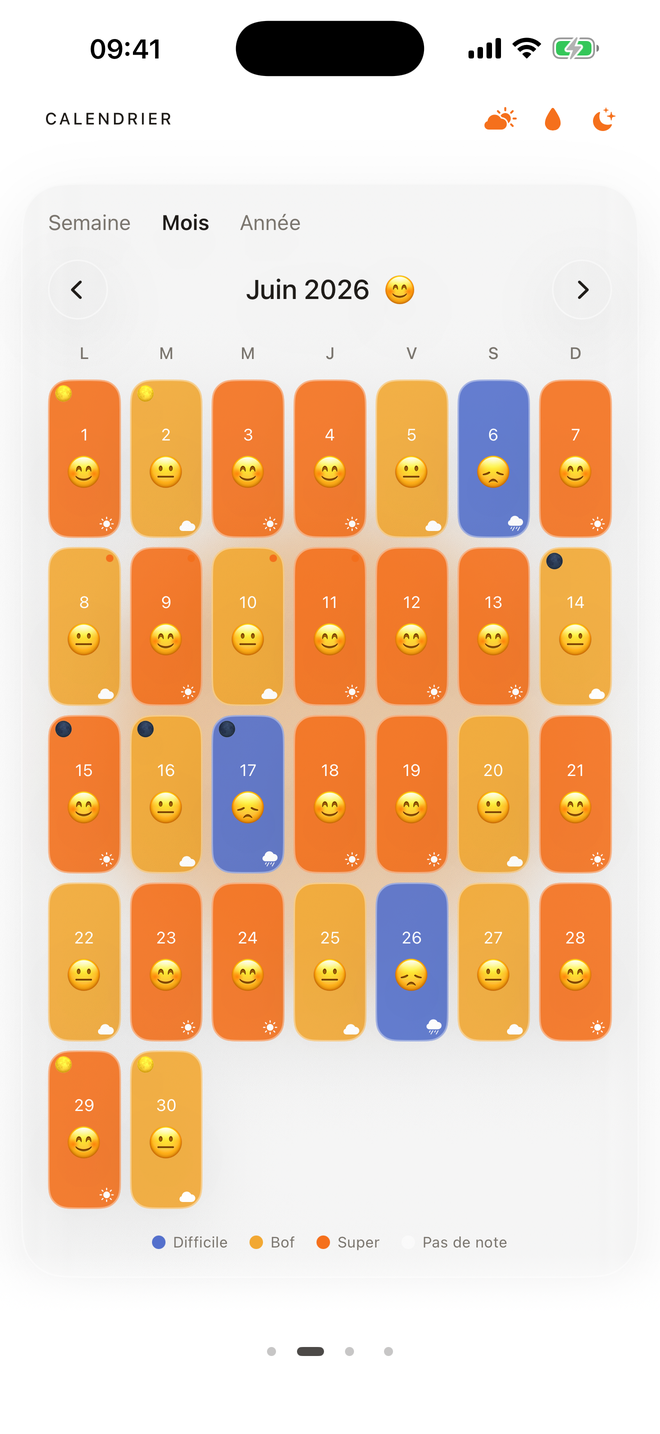
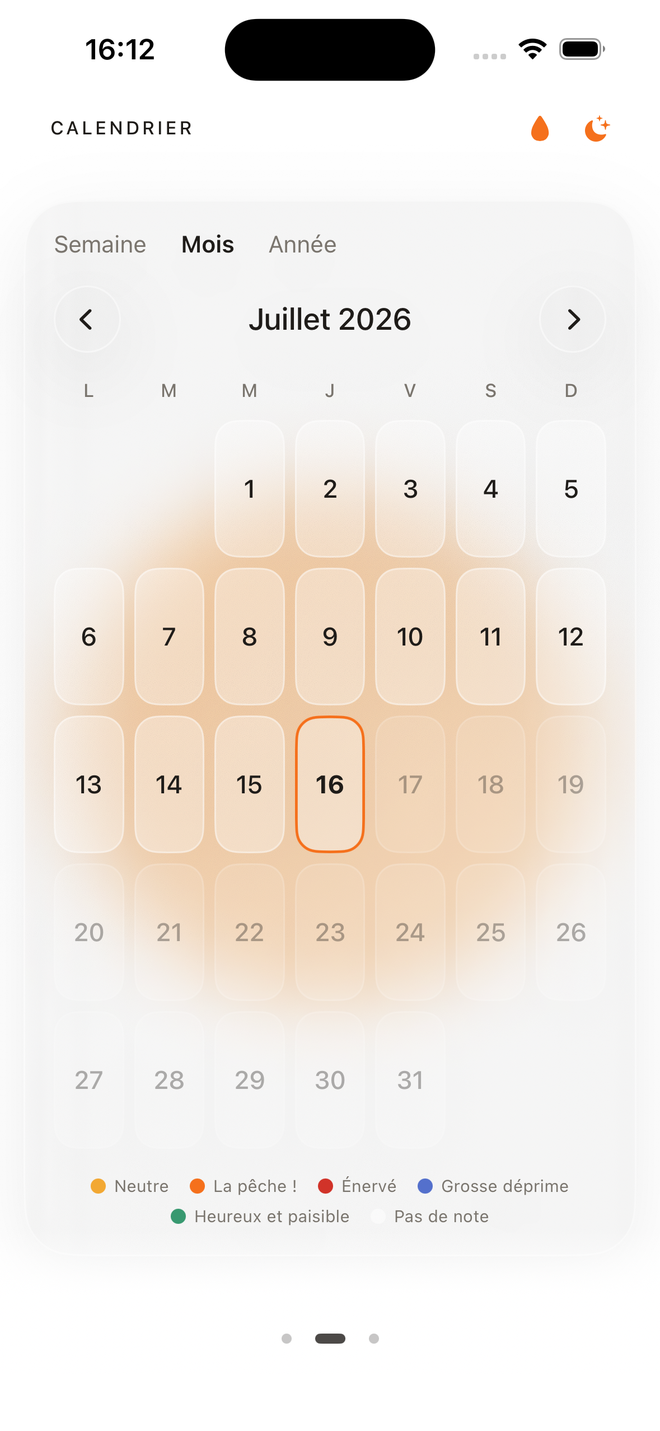
IFEEL : met la page à jour avec la nouvelle version de l'app
L'app a beaucoup changé ; la page décrivait encore l'ancienne. Mises à jour,
toutes tirées du code réel (RateMyDay) et de captures fraîches :

- Nouveau sélecteur : le pad d'humeur 2D à cinq zones (Neutre, La pêche !,
  Énervé, Grosse déprime, Heureux et paisible) remplace le smiley à trois
  niveaux. Le module animé du hero devient ce pad (couleurs prises dans le
  code), le disque se déplaçant de zone en zone.
- Apple Watch : même pad au poignet, synchronisé.
- Journée éditable : chaque jour reste modifiable.
- Nouveau calendrier en tuiles colorées (semaine / mois / année).

Section « L'app » : les trois captures du 10 juillet montraient l'ancienne
app. Remplacées par deux captures réelles de la dernière version — le pad
« La pêche ! » et le calendrier avec sa légende des cinq humeurs. La 3e
(analyses) est retirée : c'est un écran vide tant qu'il n'y a pas de données.

Fonctions, étapes, ticker, hero et métadonnées réécrits en conséquence.

diff --git a/docs/index.html b/docs/index.html
@@ -4,10 +4,10 @@
 <meta charset="UTF-8">
 <meta name="viewport" content="width=device-width, initial-scale=1.0">
 <title>IFEEL — STUPIDS STUDIO</title>
-<meta name="description" content="IFEEL : note ton humeur jour après jour. Un geste, un smiley, et ton calendrier d'émotions se dessine. Météo, lune, raisons — tout reste privé, sur ton iPhone.">
+<meta name="description" content="IFEEL : note ton humeur d'un geste sur un pad à cinq humeurs, depuis l'iPhone ou l'Apple Watch. Calendrier d'émotions en tuiles colorées, journées éditables, météo et lune — tout reste privé, sur ton appareil.">
 <link rel="icon" href="icon.png">
 <meta property="og:title" content="IFEEL">
-<meta property="og:description" content="Note ton humeur jour après jour. Simple, beau, 100% privé.">
+<meta property="og:description" content="Cinq humeurs, un pad qu'on fait glisser, sur iPhone et Apple Watch. Calendrier d'émotions, 100% privé.">
 <meta property="og:image" content="icon.png">
 <meta name="theme-color" content="#F2EFE6">
 <link rel="preconnect" href="https://fonts.googleapis.com">
@@ -87,26 +87,35 @@ nav .btn{padding:11px 16px}
 .par{transition:translate .5s var(--ease)}
 @keyframes bob{50%{transform:translateY(20px)}}
 
-/* ---------- EFFET SIGNATURE : le calendrier d'émotions ----------
-   Le cœur de l'app en une image : un mois vide qui se remplit jour
-   après jour d'un aplat d'humeur, puis repart à zéro. */
-.cal{position:relative;z-index:2;width:min(400px,84%);background:var(--ink);padding:18px}
-.cal-head{display:flex;justify-content:space-between;align-items:center;margin-bottom:14px}
-.cal-head span{font-family:var(--mono);font-size:9.5px;letter-spacing:.14em;text-transform:uppercase;color:#8f8f8f}
-.cal-head #cal-month{color:var(--paper)}
-.cal-head .dot{width:7px;height:7px;background:var(--app);animation:blink 1.6s steps(2) infinite}
+/* ---------- EFFET SIGNATURE : le pad d'humeur 2D ----------
+   Le nouveau sélecteur de l'app, traduit en Bauhaus : un champ à 2 axes
+   divisé en 5 zones (les 5 humeurs), et un disque qu'on déplace de l'une
+   à l'autre. Couleurs prises telles quelles dans le code de l'app. */
+.pad{position:relative;z-index:2;width:min(340px,80%);background:var(--ink);padding:18px}
+.pad-head{display:flex;justify-content:space-between;align-items:center;margin-bottom:14px}
+.pad-head span{font-family:var(--mono);font-size:9.5px;letter-spacing:.14em;text-transform:uppercase;color:#8f8f8f}
+.pad-head .dot{width:7px;height:7px;background:var(--app);animation:blink 1.6s steps(2) infinite}
 @keyframes blink{50%{opacity:.25}}
-.cal-days{display:grid;grid-template-columns:repeat(7,1fr);gap:3px;margin-bottom:6px}
-.cal-days b{font-family:var(--mono);font-size:8px;font-weight:400;letter-spacing:.08em;color:#6a6a6a;text-align:center}
-.cal-grid{display:grid;grid-template-columns:repeat(7,1fr);gap:3px}
-.cal-grid i{display:block;aspect-ratio:1;background:#242424}
-.cal-grid i.on{animation:pop .26s var(--ease)}
-@keyframes pop{from{transform:scale(.45)}}
-.cal-foot{display:flex;justify-content:space-between;align-items:center;gap:12px;margin-top:14px}
-.cal-foot span{font-family:var(--mono);font-size:9.5px;letter-spacing:.1em;text-transform:uppercase;color:#8f8f8f}
-.cal-foot #cal-day{color:var(--app)}
-.cal-foot #cal-day::before{content:"";display:inline-block;width:7px;height:7px;background:currentColor;
-  margin-right:7px;vertical-align:1px}
+/* le champ : 4 quadrants + le centre neutre, hard-edged */
+.field{position:relative;aspect-ratio:1;display:grid;grid-template-columns:1fr 1fr;grid-template-rows:1fr 1fr;gap:2px}
+.field .q{opacity:.2;transition:opacity .45s var(--ease)}
+.field .q.hot{opacity:1}
+.q.tl{background:#D1332A} /* Énervé */
+.q.tr{background:#F5701C} /* La pêche ! */
+.q.bl{background:#5470CC} /* Grosse déprime */
+.q.br{background:#389970} /* Heureux et paisible */
+.field .mid{position:absolute;left:50%;top:50%;width:36%;height:36%;transform:translate(-50%,-50%);
+  background:#F2A833;opacity:.2;transition:opacity .45s var(--ease)} /* Neutre */
+.field .mid.hot{opacity:1}
+/* le disque qu'on déplace */
+.field .mk{position:absolute;width:26px;height:26px;background:var(--paper);border:3px solid var(--ink);
+  border-radius:50%;left:50%;top:50%;margin:-13px;transition:left .6s var(--ease),top .6s var(--ease)}
+.pad-foot{display:flex;justify-content:space-between;align-items:center;gap:12px;margin-top:14px}
+.pad-foot span{font-family:var(--mono);font-size:10px;letter-spacing:.1em;text-transform:uppercase}
+.pad-foot #pad-mood{color:var(--paper)}
+.pad-foot #pad-mood::before{content:"";display:inline-block;width:8px;height:8px;background:var(--z,var(--app));
+  margin-right:8px;vertical-align:0}
+.pad-foot #pad-sub{color:#8f8f8f}
 
 .hero-r .rules{position:absolute;left:32px;bottom:26px;z-index:2}
 .hero-r .rules div{font-family:var(--mono);font-size:11px;letter-spacing:.12em;color:var(--white);
@@ -147,16 +156,15 @@ h2{font-size:clamp(30px,4.4vw,54px);font-weight:900;line-height:.98;letter-spaci
 .step h4{font-size:16px;font-weight:800;letter-spacing:-.02em;margin-bottom:6px}
 .step p{font-size:13.5px;line-height:1.5;color:#3a3a3a}
 
-/* ---------- L'APP — vraies captures App Store ----------
-   Pas de maquette : ces trois écrans sont les captures réelles de l'app.
+/* ---------- L'APP — vraies captures ----------
+   Pas de maquette : ce sont les captures réelles de la dernière version.
    On les pose sur un aplat, sans cadre ni arrondi ajouté. */
-.shots{display:grid;grid-template-columns:1fr;gap:34px}
-@media(min-width:660px){.shots{grid-template-columns:repeat(3,1fr)}}
+.shots{display:grid;grid-template-columns:1fr;gap:34px;max-width:600px;margin:0 auto}
+@media(min-width:560px){.shots{grid-template-columns:1fr 1fr}}
 .shots figure{margin:0;display:flex;flex-direction:column;gap:16px;align-items:center;position:relative}
-.shots .bg-sq{position:absolute;top:-16px;right:6px;width:104px;height:104px;background:var(--yellow);
+.shots .bg-sq{position:absolute;top:-16px;right:6px;width:104px;height:104px;background:var(--app);
   z-index:0;animation:bob3 10s ease-in-out infinite}
-.shots figure:nth-child(2) .bg-sq{background:var(--app)}
-.shots figure:nth-child(3) .bg-sq{background:var(--blue)}
+.shots figure:nth-child(2) .bg-sq{background:var(--yellow)}
 @keyframes bob3{50%{transform:translateY(16px)}}
 .shots img{position:relative;z-index:2;width:100%;max-width:260px;height:auto;display:block;
   transition:transform .3s var(--ease)}
@@ -231,35 +239,38 @@ footer .mail:hover{border-color:var(--app)}
 
   <div class="hero" id="top">
     <div class="hero-l">
-      <p class="eyebrow">IPHONE · IOS 17+ · BIENTÔT DISPONIBLE</p>
+      <p class="eyebrow">IPHONE + APPLE WATCH · IOS 17+ · BIENTÔT</p>
       <h1>Note ton<br>humeur.</h1>
-      <p class="sub">Un geste, un smiley — et ton <strong>calendrier d'émotions</strong> se dessine tout seul. Simple, beau, et <strong>100% privé</strong>.</p>
+      <p class="sub">Fais glisser le disque, choisis parmi <strong>5 humeurs</strong> — et ton <strong>calendrier d'émotions</strong> se colore tout seul. Depuis ton iPhone comme depuis ta montre.</p>
       <div class="cta">
         <a class="btn" href="#get">Bientôt sur l'App Store <span class="ar">→</span></a>
         <a class="lnk" href="#how">Comment ça marche</a>
       </div>
-      <p class="ver">iPhone · Gratuit · Sans pub · Sans compte · Sans tracking</p>
+      <p class="ver">iPhone + Apple Watch · Gratuit · Sans compte · Sans tracking</p>
     </div>
 
     <div class="hero-r" id="panel">
       <div class="circle par" data-d="14"></div>
-      <!-- effet signature : le mois se remplit, une humeur par jour -->
-      <div class="cal par" data-d="-8" aria-hidden="true">
-        <div class="cal-head"><span id="cal-month">JUILLET 2026</span><span class="dot"></span></div>
-        <div class="cal-days"><b>L</b><b>M</b><b>M</b><b>J</b><b>V</b><b>S</b><b>D</b></div>
-        <div class="cal-grid" id="cal-grid"></div>
-        <div class="cal-foot"><span id="cal-day">—</span><span id="cal-count">0 JOURS NOTÉS</span></div>
+      <!-- effet signature : le disque se déplace de zone en zone (les 5 humeurs) -->
+      <div class="pad par" data-d="-8" aria-hidden="true">
+        <div class="pad-head"><span>AUJOURD'HUI · 16 JUIL</span><span class="dot"></span></div>
+        <div class="field" id="field">
+          <div class="q tl"></div><div class="q tr"></div><div class="q bl"></div><div class="q br"></div>
+          <div class="mid"></div>
+          <div class="mk" id="mk"></div>
+        </div>
+        <div class="pad-foot"><span id="pad-mood">La pêche !</span><span id="pad-sub">Glisse le disque</span></div>
       </div>
       <div class="rules">
-        <div>01 / UN GESTE PAR JOUR</div>
-        <div>02 / CALENDRIER VIVANT</div>
-        <div>03 / TOUT RESTE LOCAL</div>
+        <div>01 / GLISSE, CHOISIS TON HUMEUR</div>
+        <div>02 / 5 HUMEURS, UN CALENDRIER</div>
+        <div>03 / IPHONE + APPLE WATCH</div>
       </div>
     </div>
   </div>
 
   <div class="ticker" aria-hidden="true">
-    <div class="track" id="track"><b>iPhone · iOS 17+</b><b>Gratuit · Sans pub</b><b>Sans compte</b></div>
+    <div class="track" id="track"><b>iPhone + Apple Watch</b><b>5 humeurs</b><b>Sans compte</b></div>
   </div>
 
   <section id="features" class="wrap">
@@ -269,26 +280,25 @@ footer .mail:hover{border-color:var(--app)}
     </div>
     <h2 class="rv" style="margin-bottom:44px">Ton humeur,<br>enfin claire.</h2>
     <div class="tiles">
-      <div class="tile rv"><span class="ic">🙂</span><h3>Note en un geste</h3><p>Trois humeurs, un tap. Choisis comment tu te sens et valide ta journée. C'est tout.</p><div class="bar"></div></div>
-      <div class="tile rv"><span class="ic">📅</span><h3>Calendrier vivant</h3><p>Semaine, mois, année : vois tes humeurs se colorer dans le temps et repère tes cycles.</p><div class="bar"></div></div>
-      <div class="tile rv"><span class="ic">🎯</span><h3>Les raisons</h3><p>Ajoute pourquoi — travail, amour, sommeil, sport… — pour comprendre tes hauts et tes bas.</p><div class="bar"></div></div>
-      <div class="tile rv"><span class="ic">🌤️</span><h3>Le contexte</h3><p>Météo, phase de lune et règles mises en regard de ton humeur, pour révéler les liens invisibles.</p><div class="bar"></div></div>
-      <div class="tile rv"><span class="ic">🔒</span><h3>100% privé</h3><p>Tout reste sur ton iPhone. Aucun compte, aucun serveur, aucun tracking. Verrouillage Face ID.</p><div class="bar"></div></div>
-      <div class="tile rv"><span class="ic">🌍</span><h3>À ton image</h3><p>Six langues, mode clair et sombre, retours haptiques délicats. L'app s'adapte à toi.</p><div class="bar"></div></div>
+      <div class="tile rv"><span class="ic">🎨</span><h3>Cinq humeurs, un geste</h3><p>Fini le simple smiley : fais glisser le disque sur le pad à deux axes et choisis exactement où tu te situes, parmi cinq humeurs.</p><div class="bar"></div></div>
+      <div class="tile rv"><span class="ic">⌚</span><h3>Sur ta montre aussi</h3><p>Note ton humeur depuis l'Apple Watch, avec le même pad qu'au poignet. Ça se synchronise tout seul avec l'iPhone.</p><div class="bar"></div></div>
+      <div class="tile rv"><span class="ic">📅</span><h3>Calendrier vivant</h3><p>Nouveau look en tuiles colorées. Semaine, mois, année : vois tes humeurs se teinter dans le temps et repère tes cycles.</p><div class="bar"></div></div>
+      <div class="tile rv"><span class="ic">✏️</span><h3>Reviens quand tu veux</h3><p>Chaque journée reste modifiable. Rouvre un jour passé, change l'humeur, ajoute une raison ou un mot.</p><div class="bar"></div></div>
+      <div class="tile rv"><span class="ic">🌤️</span><h3>Raisons &amp; contexte</h3><p>Le pourquoi de ton humeur, plus la météo, la lune et les règles mises en regard — pour révéler les liens invisibles.</p><div class="bar"></div></div>
+      <div class="tile rv"><span class="ic">🔒</span><h3>100% privé</h3><p>Tout reste sur ton iPhone. Aucun compte, aucun serveur, aucun tracking. Verrouillage Face ID, six langues, clair et sombre.</p><div class="bar"></div></div>
     </div>
   </section>
 
   <section id="app" class="wrap" style="padding-top:0">
     <div class="sec-head">
       <p class="eyebrow rv">L'APP</p>
-      <p class="note rv">Trois écrans. Il n'y en a pas d'autres.</p>
+      <p class="note rv">Deux écrans. C'est toute l'app.</p>
     </div>
-    <h2 class="rv" style="margin-bottom:44px">Une humeur,<br>un geste.</h2>
-    <p class="lead rv" style="margin-bottom:44px">Au centre de l'écran, un disque coloré qui répond à ton humeur. Tu choisis, tu valides. Un mot, une raison si tu veux — puis tu passes ta journée. Rien de superflu.</p>
+    <h2 class="rv" style="margin-bottom:44px">Glisse.<br>Le mois se colore.</h2>
+    <p class="lead rv" style="margin-bottom:44px">Le grand disque répond à ton geste : glisse-le vers ton humeur du jour parmi cinq. Valide, et ta journée prend sa couleur dans le calendrier — semaine, mois, année. Rien de superflu.</p>
     <div class="shots rv">
-      <figure><div class="bg-sq"></div><img src="app-accueil.png" alt="L'écran d'accueil d'IFEEL : « Comment vas-tu aujourd'hui ? » et le disque d'humeur" loading="lazy" width="660" height="1434"><figcaption>Aujourd'hui</figcaption></figure>
-      <figure><div class="bg-sq"></div><img src="app-calendrier.png" alt="Le calendrier d'IFEEL : un mois d'humeurs en couleurs, avec la météo de chaque jour" loading="lazy" width="660" height="1434"><figcaption>Le calendrier</figcaption></figure>
-      <figure><div class="bg-sq"></div><img src="app-analyses.png" alt="Les analyses d'IFEEL : répartition des humeurs et tendances" loading="lazy" width="660" height="1434"><figcaption>Les analyses</figcaption></figure>
+      <figure><div class="bg-sq"></div><img src="app-accueil.png" alt="L'écran d'accueil d'IFEEL : « Comment vas-tu aujourd'hui ? » et le grand disque d'humeur sur « La pêche ! »" loading="lazy" width="660" height="1431"><figcaption>Le pad d'humeur</figcaption></figure>
+      <figure><div class="bg-sq"></div><img src="app-calendrier.png" alt="Le calendrier d'IFEEL : un mois en tuiles colorées, avec la légende des cinq humeurs" loading="lazy" width="660" height="1431"><figcaption>Le calendrier</figcaption></figure>
     </div>
   </section>
 
@@ -299,9 +309,9 @@ footer .mail:hover{border-color:var(--app)}
     </div>
     <h2 class="rv" style="margin-bottom:44px">Ouvre. Ressens. Observe.</h2>
     <div class="steps">
-      <div class="step rv"><div class="n">01</div><h4>Ouvre l'app</h4><p>Ton humeur du jour t'attend, au centre de l'écran. Pas de menu, pas de tunnel.</p></div>
-      <div class="step rv"><div class="n">02</div><h4>Choisis &amp; valide</h4><p>Un smiley, un tap. Ajoute une raison ou un mot si le cœur t'en dit.</p></div>
-      <div class="step rv"><div class="n">03</div><h4>Observe</h4><p>Ton calendrier se remplit, les tendances apparaissent. Tu te découvres.</p></div>
+      <div class="step rv"><div class="n">01</div><h4>Glisse le disque</h4><p>Le grand disque t'attend au centre. Fais-le glisser vers ton humeur du jour, parmi cinq — depuis l'iPhone ou l'Apple Watch.</p></div>
+      <div class="step rv"><div class="n">02</div><h4>Valide, ou reviens</h4><p>Ajoute une raison, un mot, la météo. Et si demain tu changes d'avis : chaque journée reste modifiable.</p></div>
+      <div class="step rv"><div class="n">03</div><h4>Observe</h4><p>Ton calendrier se colore, les cycles apparaissent. Tu te découvres.</p></div>
     </div>
   </section>
 
@@ -348,8 +358,8 @@ footer .mail:hover{border-color:var(--app)}
 
 <script>
 /* Ticker : dupliqué pour une boucle sans couture */
-const words=["iPhone · iOS 17+","Gratuit · Sans pub","Sans compte","Sans tracking",
-             "Six langues","Clair &amp; sombre","Face ID","Tout reste en local"];
+const words=["iPhone + Apple Watch","5 humeurs","Pad d'humeur 2D","Journée éditable",
+             "Semaine · Mois · Année","Six langues","Face ID","Tout reste en local"];
 document.getElementById('track').innerHTML=words.map(w=>`<b>${w}</b>`).join('').repeat(2);
 
 /* Révélation au scroll — volet net, en cascade.
@@ -372,60 +382,33 @@ requestAnimationFrame(reveal);
 
 const reduce=matchMedia('(prefers-reduced-motion:reduce)').matches;
 
-/* ---- Effet signature : le calendrier d'émotions ----
-   Un mois vide se remplit jour après jour d'un aplat d'humeur,
-   le compteur monte, puis on repart d'un mois neuf. */
-const MONTHS=[["JANVIER","JANV",31],["FÉVRIER","FÉVR",28],["MARS","MARS",31],["AVRIL","AVRIL",30],
-              ["MAI","MAI",31],["JUIN","JUIN",30],["JUILLET","JUIL",31],["AOÛT","AOÛT",31],
-              ["SEPTEMBRE","SEPT",30],["OCTOBRE","OCT",31],["NOVEMBRE","NOV",30],["DÉCEMBRE","DÉC",31]];
-/* La palette d'humeurs : l'ambre de l'app domine, le studio ponctue. */
-const MOODS=[{n:"RADIEUX",c:"var(--yellow)"},{n:"JOYEUX",c:"#F0A755"},{n:"SEREIN",c:"var(--app)"},
-             {n:"CALME",c:"var(--paper)"},{n:"MITIGÉ",c:"#8A5218"},{n:"TENDU",c:"var(--red)"},
-             {n:"RÊVEUR",c:"var(--blue)"}];
-/* Tirage pondéré : les ambres (1,2,4) sortent le plus souvent. */
-const BAG=[2,2,1,4,2,3,1,2,0,4,2,1,5,2,4,6,1,2,3,2];
-
-const grid=document.getElementById('cal-grid');
-const monEl=document.getElementById('cal-month');
-const dayEl=document.getElementById('cal-day');
-const cntEl=document.getElementById('cal-count');
-let mi=6, cells=[], day=0;
-
-function buildMonth(){
-  const m=MONTHS[mi];
-  monEl.textContent=m[0]+" 2026";
-  grid.innerHTML='';
-  cells=[];
-  for(let i=0;i<m[2];i++){const c=document.createElement('i');grid.appendChild(c);cells.push(c);}
-  day=0;
-  dayEl.textContent='—';
-  cntEl.textContent='0 JOURS NOTÉS';
+/* ---- Effet signature : le pad d'humeur 2D ----
+   Le disque se déplace d'une zone à l'autre, la zone active s'allume et
+   son nom s'affiche. Les 5 humeurs, leurs noms et leurs couleurs sont
+   ceux du code de l'app (energized/angry/down/peaceful/neutral). */
+const ZONES=[
+  {n:"La pêche !",           c:"#F5701C", x:76, y:24, hot:".q.tr"},
+  {n:"Heureux et paisible",  c:"#389970", x:76, y:76, hot:".q.br"},
+  {n:"Neutre",               c:"#F2A833", x:50, y:50, hot:".mid"},
+  {n:"Grosse déprime",       c:"#5470CC", x:24, y:76, hot:".q.bl"},
+  {n:"Énervé",               c:"#D1332A", x:24, y:24, hot:".q.tl"}
+];
+const field=document.getElementById('field');
+const mk=document.getElementById('mk');
+const moodEl=document.getElementById('pad-mood');
+function show(z){
+  field.querySelectorAll('.hot').forEach(e=>e.classList.remove('hot'));
+  field.querySelector(z.hot).classList.add('hot');
+  mk.style.left=z.x+'%'; mk.style.top=z.y+'%';
+  moodEl.textContent=z.n;
+  moodEl.style.setProperty('--z',z.c);
 }
-function paint(i,mood){
-  cells[i].style.background=mood.c;
-  cells[i].classList.add('on');
-}
-function step(){
-  if(day>=cells.length){                       /* mois plein : court temps mort */
-    setTimeout(()=>{mi=(mi+1)%12;buildMonth();setTimeout(step,450)},1600);
-    return;
-  }
-  const mood=MOODS[BAG[Math.floor(Math.random()*BAG.length)]];
-  paint(day,mood);
-  day++;
-  dayEl.textContent=day+' '+MONTHS[mi][1]+' · '+mood.n;
-  cntEl.textContent=day+' JOUR'+(day>1?'S':'')+' NOTÉ'+(day>1?'S':'');
-  setTimeout(step,150);
-}
-buildMonth();
 if(reduce){
-  /* Sans animation : le mois est déjà entièrement noté. */
-  cells.forEach((c,i)=>paint(i,MOODS[BAG[i%BAG.length]]));
-  day=cells.length;
-  dayEl.textContent=day+' '+MONTHS[mi][1]+' · '+MOODS[BAG[(day-1)%BAG.length]].n;
-  cntEl.textContent=day+' JOURS NOTÉS';
+  show(ZONES[0]);                              /* au repos : « La pêche ! » */
 }else{
-  setTimeout(step,600);
+  let zi=0;
+  show(ZONES[0]);
+  setInterval(()=>{ zi=(zi+1)%ZONES.length; show(ZONES[zi]); }, 1600);
 }
 
 /* Parallaxe : les formes suivent le pointeur, chacune à sa profondeur */